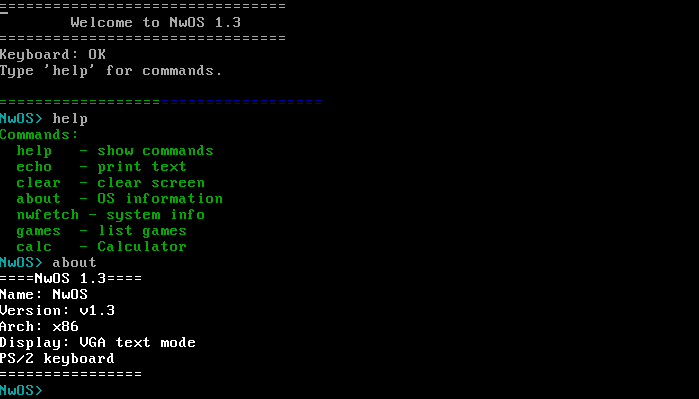
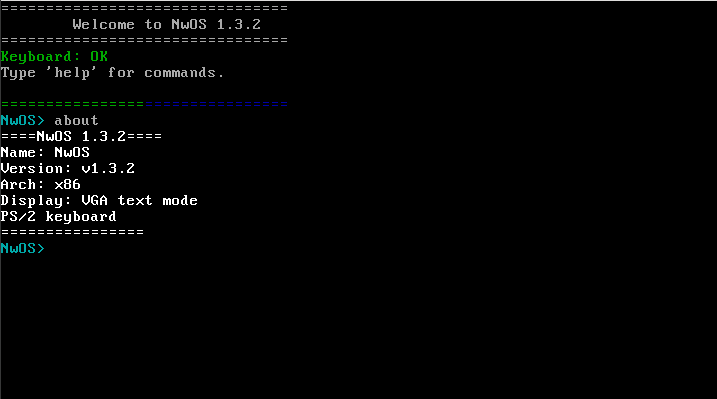
made game 'guess number: hard'

Changed region(s): [[0.0, 0.2406, 0.4206, 0.9925], [0.0, 0.0, 0.4206, 0.2105]]

diff --git a/kernel.c b/kernel.c
@@ -627,12 +627,50 @@ void game_rps(void)
         print_error("Computer won the match!\n");
 }
 
+void game_guessh(void)
+{
+    char bufferh[32];
+
+    int secreth = random_range(1, 250);
+
+    print("\n=== GUESS THE NUMBER HARD===\n");
+    print("I chose a number from 1 to 250.\n");
+    print_error("Type quit to exit.\n\n");
+
+    while (1)
+    {
+        print("Your guess: ");
+
+        read_line(bufferh, 32);
+
+        if (strcmp(bufferh, "quit") == 0)
+        {
+            print("You left the game.\n");
+            return;
+        }
+
+        int number = atoi_simple(bufferh);
+
+        if (number == secreth)
+        {
+            print_success("Correct! You win!\n");
+            return;
+        }
+
+        if (number < secreth)
+            print("Too small!\n");
+        else
+            print("Too big!\n");
+    }
+}
+
 
 void games(void)
 {
     print("\nGames:\n");
 
     print("  guess - Guess the Number\n");
+    print("  guessh - Guess number (hard)\n");
     print("  rps   - Rock Paper Scissors\n");
     print("  word - Guess word\n");
 
@@ -699,7 +737,7 @@ void Calc(void)
     print("First number: ");
     a = read_int();
 
-    print("Operation (+ - * /): ");
+    print("Operation (+ - * ^ /): ");
     read_line(operation, 4);
 
     print("Second number: ");
@@ -718,6 +756,10 @@ void Calc(void)
     else if (operation[0] == '*')
     {
         print_int(a * b);
+    }
+    else if (operation[0] == '^')
+    {
+        print_int(a ^ b);
     }
     else if (operation[0] == '/')
     {
@@ -742,7 +784,7 @@ void dateCr()
 {
     set_color(COLOR_WHITE);
     print("2026.08.27");
-    print("v.1.3.1");
+    print("v.1.3.2");
     set_color(COLOR_LIGHT_GRAY);
 }
 
@@ -761,7 +803,7 @@ void game_word(void)
         print("Answer: ");
         read_line(answer, 32);
 
-        if (strcmp(answer, "python") == 0)
+        if (strcmp(answer, "Rust") == 0)
         {
             print_success("Correct! You win!\n");
             return;
@@ -781,7 +823,7 @@ void nwfetch(void)
     print("   NwOS\n");
 
     print("      |  \\|  |      ");
-    print("   Version: 1.3\n");
+    print("   Version: 1.3.2\n");
 
     print("      | |\\| |      ");
     print("   Arch: x86\n");
@@ -826,6 +868,66 @@ void reboot(void)
     }
 }
 
+// colors
+
+void t_colorgreen(void)
+{
+    set_color(COLOR_GREEN);
+    print("setted color to green\n");
+}
+void t_colorred(void)
+{
+    set_color(COLOR_RED);
+    print("setted color to red\n");
+}
+void t_colorgray(void)
+{
+    set_color(COLOR_LIGHT_GRAY);
+    print("setted color to gray\n");
+}
+void t_colorblue(void)
+{
+    set_color(COLOR_BLUE);
+    print("setted color to blue\n");
+}
+void t_colorcyan(void)
+{
+    set_color(COLOR_CYAN);
+    print("setted color to cyan\n");
+}
+
+void t_colorsetter(void)
+{
+    print_error("!Warning! it only test command, it may not work\n");
+    int chooseT;
+    print("1.green\n");
+    print("2.red\n");
+    print("3.gray (Default)\n");
+    print("4.blue\n");
+    print("5.cyan\n");
+    chooseT = read_int();
+    if (chooseT == 1)
+    {
+        t_colorgreen();
+    }
+    if (chooseT == 2)
+    {
+        t_colorred();
+    }
+    if (chooseT == 3)
+    {
+        t_colorgray();
+    }
+    if (chooseT == 4)
+    {
+        t_colorblue();
+    }
+    if (chooseT == 5)
+    {
+        t_colorcyan();
+    }
+}
+
 /* =========================
    Shell
    ========================= */
@@ -853,6 +955,7 @@ void shell(void)
             print("  nwfetch - system info\n");
             print("  games  - list games\n");
             print("  calc   - Calculator\n");
+            print("  color  - change color\n");
             print("  reboot - restart NwOS\n");
             set_color(COLOR_LIGHT_GRAY);
         }
@@ -865,9 +968,9 @@ void shell(void)
         else if (strcmp(command, "about") == 0)
         {
             set_color(COLOR_WHITE);
-            print("====NwOS 1.3.1====\n");
+            print("====NwOS 1.3.2====\n");
             print("Name: NwOS\n");
-            print("Version: v1.3.1\n");
+            print("Version: v1.3.2\n");
             print("Arch: x86\n");
             print("Display: VGA text mode\n");
             print("PS/2 keyboard\n");
@@ -891,7 +994,7 @@ void shell(void)
             nwfetch();
         }
 
-        else if (strcmp(command, "date?") == 0)
+        else if (strcmp(command, "datec") == 0)
         {
             dateCr();
         }
@@ -903,6 +1006,14 @@ void shell(void)
         else if (strcmp(command, "calc") == 0)
         {
             Calc();
+        }
+        else if (strcmp(command, "guessh") == 0)
+        {
+            game_guessh();
+        }
+        else if (strcmp(command, "color") == 0)
+        {
+            t_colorsetter();
         }
         else if (strcmp(command, "reboot") == 0)
         {
@@ -945,9 +1056,11 @@ void kernel_main(void)
     random_init();
 
     print("================================\n");
-    print("        Welcome to NwOS 1.3.1\n");
+    print("        Welcome to NwOS 1.3.2\n");
     print("================================\n");
+    set_color(COLOR_GREEN);
     print("Keyboard: OK\n");
+    set_color(COLOR_LIGHT_GRAY);
     print("Type 'help' for commands.\n\n");
     set_color(COLOR_GREEN);
     print("================");

diff --git a/README.md b/README.md
@@ -25,7 +25,7 @@ A small x86 operating system written in C and NASM.
 - Time
 - Automatic terminal scrolling
 
-## Build
+## Build from virtual box
 build:
 
 make sure that you have Oracle Virtualbox
@@ -45,6 +45,18 @@ VBoxManage convertfromraw "C:\road\to\nwos.img" "C:\road\to\NwOS.vdi" --format V
 it gonna create VDI file
 
 then you need to create a new machine named "NwOS" and put vdi as hard drive
+
+## Build from qemu
+
+download qemu from ucrt
+
+then in ucrt run this:
+
+cd C:/Road/to/nwos.img
+
+and then enter this:
+
+qemu-system-i386 -drive file=nwos.img,format=raw,index=0,media=disk
 
 ## Run
 
